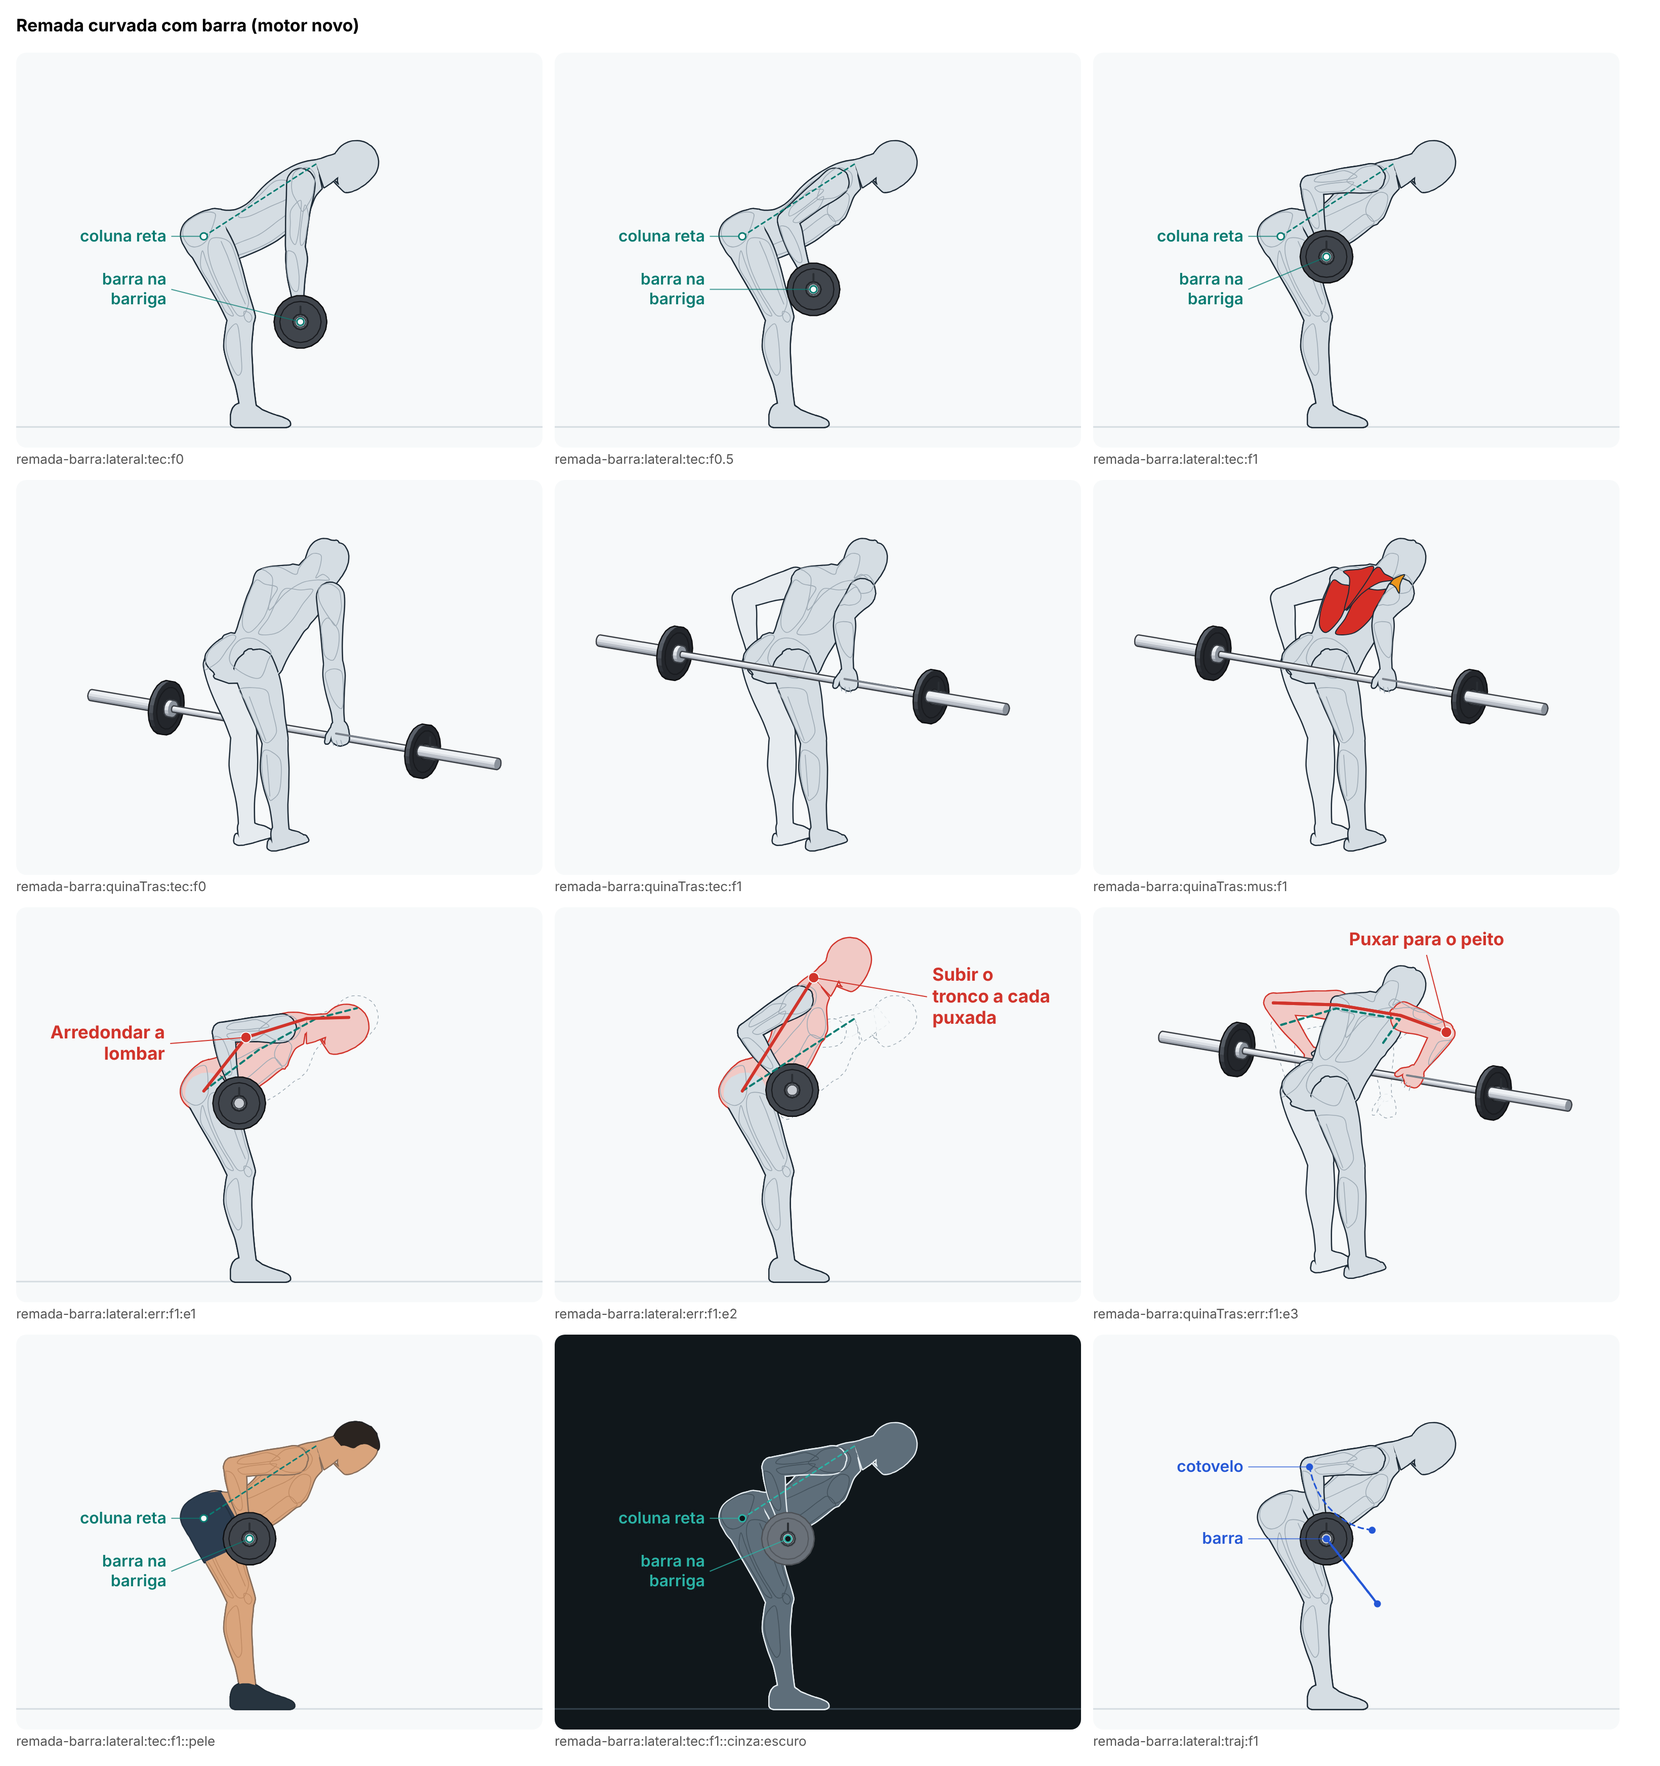
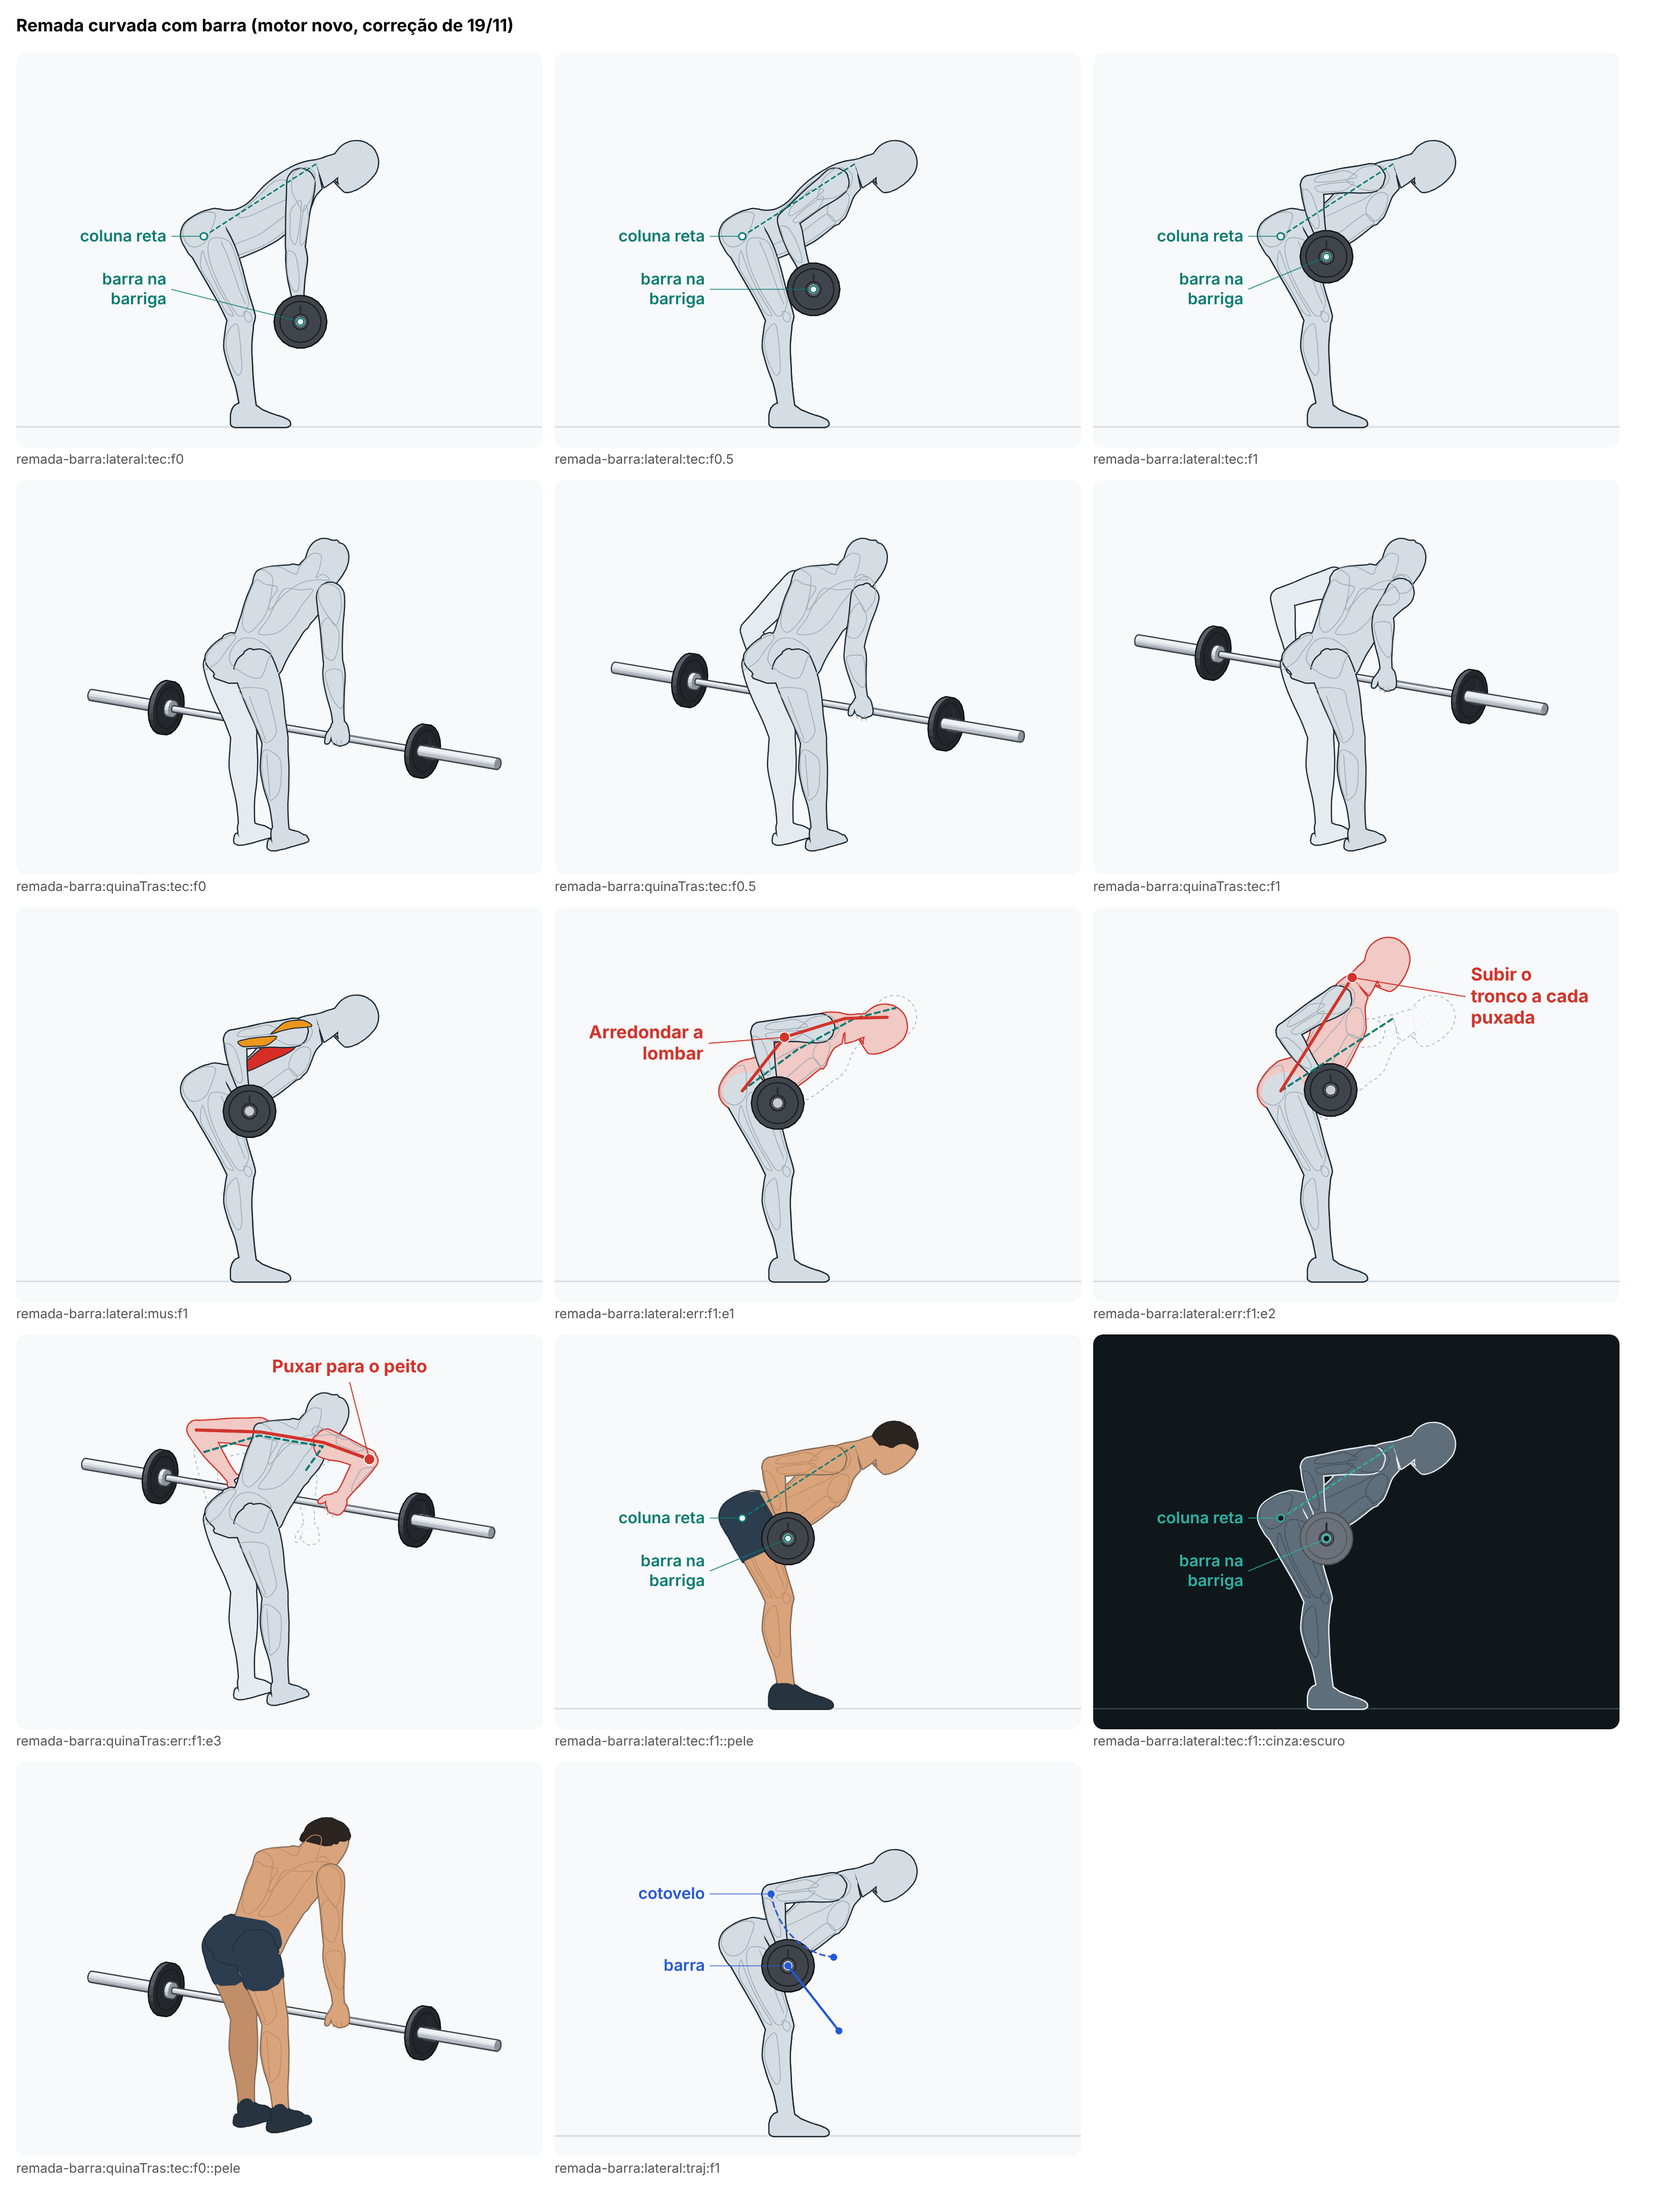
Corrige a barra por cima do quadril na remada com barra
De três quartos por trás, no fim da puxada, a pegada (um item só)
empatava com o tronco e passava à frente da perna de longe, por cima do
quadril e das coxas. O corpo inteiro vem 10 cm para a frente da barra na
pintura nessa vista; a anilha continua a de 5 kg. Regra nova
remada-barra-pegada-pintada-no-lugar.

Claude-Session: https://claude.ai/code/session_01YRzts8DBGbsca9onebcMt1

diff --git a/src/engine/novo/regras/barra-longa.ts b/src/engine/novo/regras/barra-longa.ts
@@ -7,10 +7,12 @@ import { f1, faixa } from '../conferir-util';
 import type { Regra } from '../conferir-util';
 import type { Quadro } from '../movimento';
 import { PERNAS, folgaDaBarraNaPele, folgaDaBarraNosPontos, peleDensa } from '../exercicios/com-barra-longa';
+import { remadaBarra } from '../exercicios/remada-barra';
 import { raioDaPegada } from '../pecas-de-cena/barra-longa';
 import { obj } from '../tabelas';
 import { add, angulo, dist, dot, mul, paraRef, sub } from '../vec';
 import type { V3 } from '../vec';
+import { regraDePintura } from './ordem-de-pintura';
 
 const primeiro = <T>(q: T[]) => q[0]!;
 const ultimo = <T>(q: T[]) => q[q.length - 1]!;
@@ -20,6 +22,25 @@ const folgaDaBarra = (q: Quadro, partes: ReadonlySet<string>) => folgaDaBarraNaP
 const APOIO_DA_BARRA: ReadonlySet<string> = new Set(['tronco', 'cintura', 'emendaDaCintura', 'pelve', 'coxa']);
 
 export const REGRAS_BARRA_LONGA: Record<string, Regra> = {
+  // A pegada da barra (entre os rebordos) e as linhas da recartilha em cima dela (os três primeiros itens que a peça
+  // desenha) contra o corpo, nos dois lados, em cada vista do guia (acréscimo de 19/11, auditoria das fases A e B): de
+  // três quartos por trás, no fim da puxada, a barra, que fica na frente da barriga, era pintada por cima do quadril e
+  // das coxas. As mãos fecham em volta dela e não contam.
+  'remada-barra-pegada-pintada-no-lugar': regraDePintura({
+    exercicio: () => remadaBarra,
+    nome: 'a barra',
+    fora: ['mao', 'polegar'],
+    peca: (x) => {
+      const p = x.pecas?.find((y) => y.t === 'propria' && y.nome === 'barra longa');
+      const c = x.marcas.barra;
+      if (!p || !c) return [];
+      const entre = obj('barraLonga', 'entreMangas') / 2,
+        mm = obj('barraLonga', 'marcasEntre') / 2,
+        r = raioDaPegada();
+      const P = (d: number): V3 => add(c, [d, 0, 0]);
+      return [{ peca: p, partes: [{ eixo: [P(-entre), P(entre)], raio: r, itens: [0] }, { eixo: [P(-(mm - 18)), P(-(mm + 10))], raio: r, itens: [1] }, { eixo: [P(mm - 18), P(mm + 10)], raio: r, itens: [2] }] }];
+    },
+  }),
   'barra-firme-nas-duas-maos': (q) => {
     // cada mão no ponto da barra que segura; as duas pegadas sempre à mesma distância (as mãos não deslizam) e na mesma
     // altura e profundidade (a barra fica na horizontal, de um lado ao outro)

diff --git a/src/engine/novo/exercicios/remada-barra.ts b/src/engine/novo/exercicios/remada-barra.ts
@@ -219,8 +219,20 @@ function quadro(corpo: Corpo, u: number, erro?: string): Quadro {
     fios: [],
     cargas: [{ massa: MASSA, pos: c }],
     marcas: { barra: c, pegaR: [-X(), c[1], c[2]], pegaL: [X(), c[1], c[2]] },
+    // De três quartos por trás, a barra fica atrás do corpo (na frente das coxas e da barriga, e quem olha está atrás da
+    // pessoa). A pegada é um item só, pintado pela profundidade do meio dela: no fim da puxada, encostada na barriga,
+    // ela empatava com o tronco (que é pintado pela média das partes dele) e ficava por cima do quadril e das coxas, e
+    // passava 7 cm à frente da perna de longe. O corpo inteiro vem para a frente dela na pintura (os quatro membros
+    // juntos, para nada mudar entre eles); as mangas e as anilhas, fora do corpo, continuam como estão (a regra
+    // remada-barra-pegada-pintada-no-lugar mede, nos dois lados e nas duas vistas).
+    viesNaVista: { quinaTras: { corpo: VIES_NA_QUINA_TRAS, pernaR: VIES_NA_QUINA_TRAS, pernaL: VIES_NA_QUINA_TRAS, bracoR: VIES_NA_QUINA_TRAS, bracoL: VIES_NA_QUINA_TRAS } },
   };
 }
+/**
+ * Quanto o corpo vem para a frente da barra na pintura, de três quartos por trás (cm de profundidade): o bastante para
+ * passar a pegada, que chegava a 7 cm à frente da perna de longe, com 3 cm de folga.
+ */
+const VIES_NA_QUINA_TRAS = 10;
 const mix3 = (a: V3, b: V3, u: number): V3 => [mix(a[0], b[0], u), mix(a[1], b[1], u), mix(a[2], b[2], u)];
 
 export const remadaBarra: Exercicio = {

diff --git a/docs/revisoes/animacao-nova/lote-B1/remada-barra.md b/docs/revisoes/animacao-nova/lote-B1/remada-barra.md
@@ -61,3 +61,15 @@ Não há correção registrada para este exercício. Das remadas aprovadas: o tr
 - **De lado, a anilha de perto cobre as mãos e a barra cobre parte da coxa** no fim da puxada; a pegada fechada se vê na vista de três quartos, de trás.
 - **O caminho da barra é uma reta** da pendurada à barriga. De lado ela parece subir e voltar um pouco para trás, como na remada de verdade, mas não há fonte para a curva; ficou a reta.
 - **No erro "Puxar para o peito", de três quartos, o braço de longe some atrás do tronco**; o cotovelo aberto se lê pelo braço de perto.
+
+## Correção de 19/11 (auditoria)
+
+A auditoria das fases A e B (G8) achou que, de três quartos por trás, no fim da puxada, a barra, que está na frente da barriga, era pintada por cima do quadril e das coxas, como se passasse por trás da pessoa. **Causa:** a pegada da barra é um item só, pintado pela profundidade do meio dela; encostada na barriga, ela empatava com o item do tronco (pintado pela média das partes dele) e passava à frente da perna de longe.
+
+**O que mudou.** Só no exercício: `viesNaVista` de três quartos por trás traz o corpo inteiro (o tronco com as pernas de perto, a perna de longe e os dois braços, o mesmo tanto, para nada mudar entre eles) 10 cm para a frente da barra na pintura. A peça da barra não mudou e a anilha continua a de 5 kg, como o Gustavo aprovou. A regra nova `remada-barra-pegada-pintada-no-lugar` mede a pegada e as duas linhas da recartilha contra cada parte do corpo, dos dois lados, nas duas vistas (as mãos, que fecham em volta da barra, não contam).
+
+**Antes → depois** (pior quadro, cm de folga de pintura; negativo = ordem errada): de três quartos por trás, o tronco e a perna direita, que escondem a barra, −0,1 → 9,9; a perna esquerda, −7,0 → 3,0. De lado, nada se cruza com a pegada (fora as mãos). A regra falha no estado antigo e passa no novo; a conferência automática dá 0 falha e os mesmos 2 avisos.
+
+Como a ordem de pintura é medida (a regra nova, com o núcleo em `src/engine/novo/regras/ordem-de-pintura.ts`): em cada vista do guia (as do exercício e as dos erros), a cada 3 quadros do movimento certo e em cada erro no começo, no meio e no fim, um raio sai de cada ponto do eixo da peça até quem olha e de cada ponto da pele virada para quem olha (a 85% do raio) até quem olha; se ele atravessa o corpo (os dois lados, cada grupo à parte), aquela parte do corpo tem de ser pintada depois do item que pinta a peça; se atravessa a peça, antes. A folga é a diferença de profundidade de pintura (cm; negativa = ordem errada). Contam só os cruzamentos de 4 pontos ou mais; a pele que fica dentro de outra parte do corpo ou dentro da própria peça não conta; quando a mesma parte esconde e é escondida pela mesma peça, vale o lado com mais pontos.
+
+**O que ainda não ficou bom.** De lado, a anilha de perto continua cobrindo as mãos (já estava na lista acima). As mangas e as anilhas não entram na regra: elas ficam fora do corpo e não se cruzam com ele na tela.
